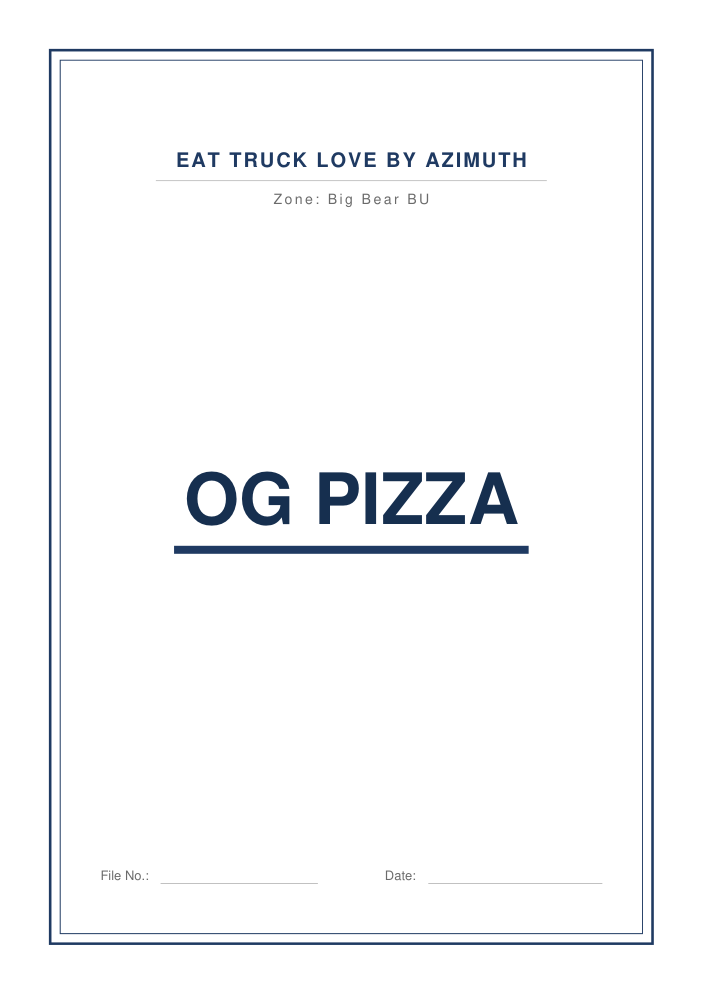
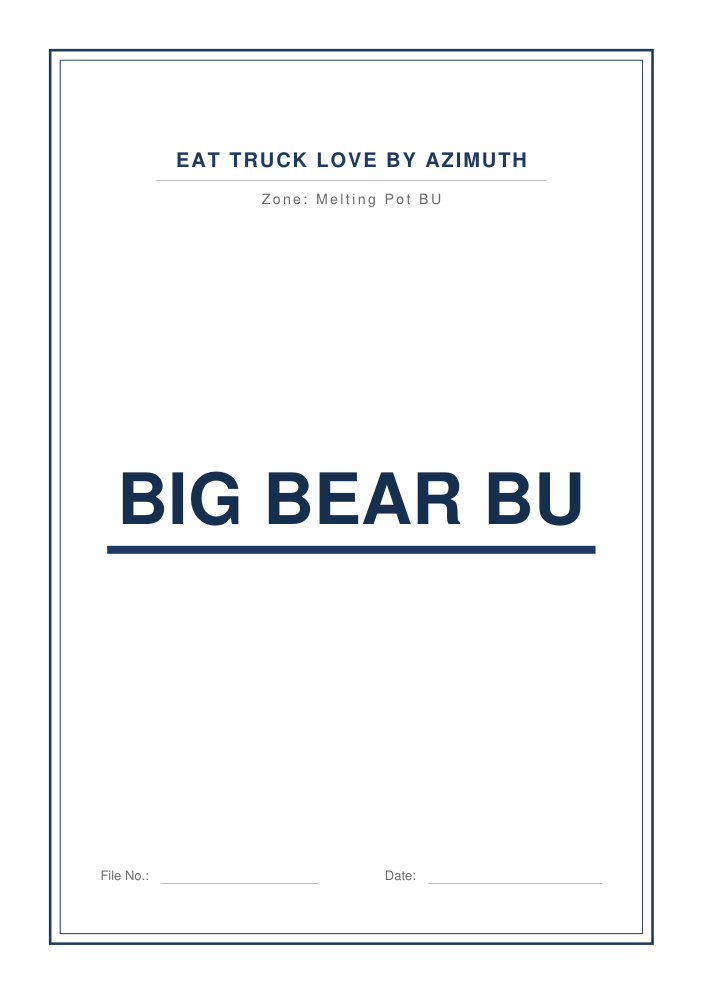
Fix: single zone 'Melting Pot BU' on all pages; Big Bear BU is brand #1 (8 pages)

Changed region(s): [[0.1494, 0.4678, 0.8663, 0.5614], [0.3883, 0.1871, 0.6273, 0.2183]]

diff --git a/make_separators.py b/make_separators.py
@@ -28,11 +28,12 @@ W, H = A4
 
 TOP_HEADER = "EAT TRUCK LOVE BY AZIMUTH"
 
-# ---- zones (Business Units) and their brands, in order ----
+# ---- single zone; one page per brand (in order) ----
 ZONES = [
     {
-        "zone": "Big Bear BU",
+        "zone": "Melting Pot BU",
         "brands": [
+            "BIG BEAR BU",
             "OG PIZZA",
             "BUKHARA2BEIJING",
             "THE MOMO BOX",
@@ -41,10 +42,6 @@ ZONES = [
             "KOBY'S",
             "BURRITO BRO'S",
         ],
-    },
-    {
-        "zone": "Melting Pot BU",
-        "brands": ["BIGG BEAR", "EGGSPERT", "THE CHATPATA AFFAIR", "CROWNEST"],
     },
 ]
 
